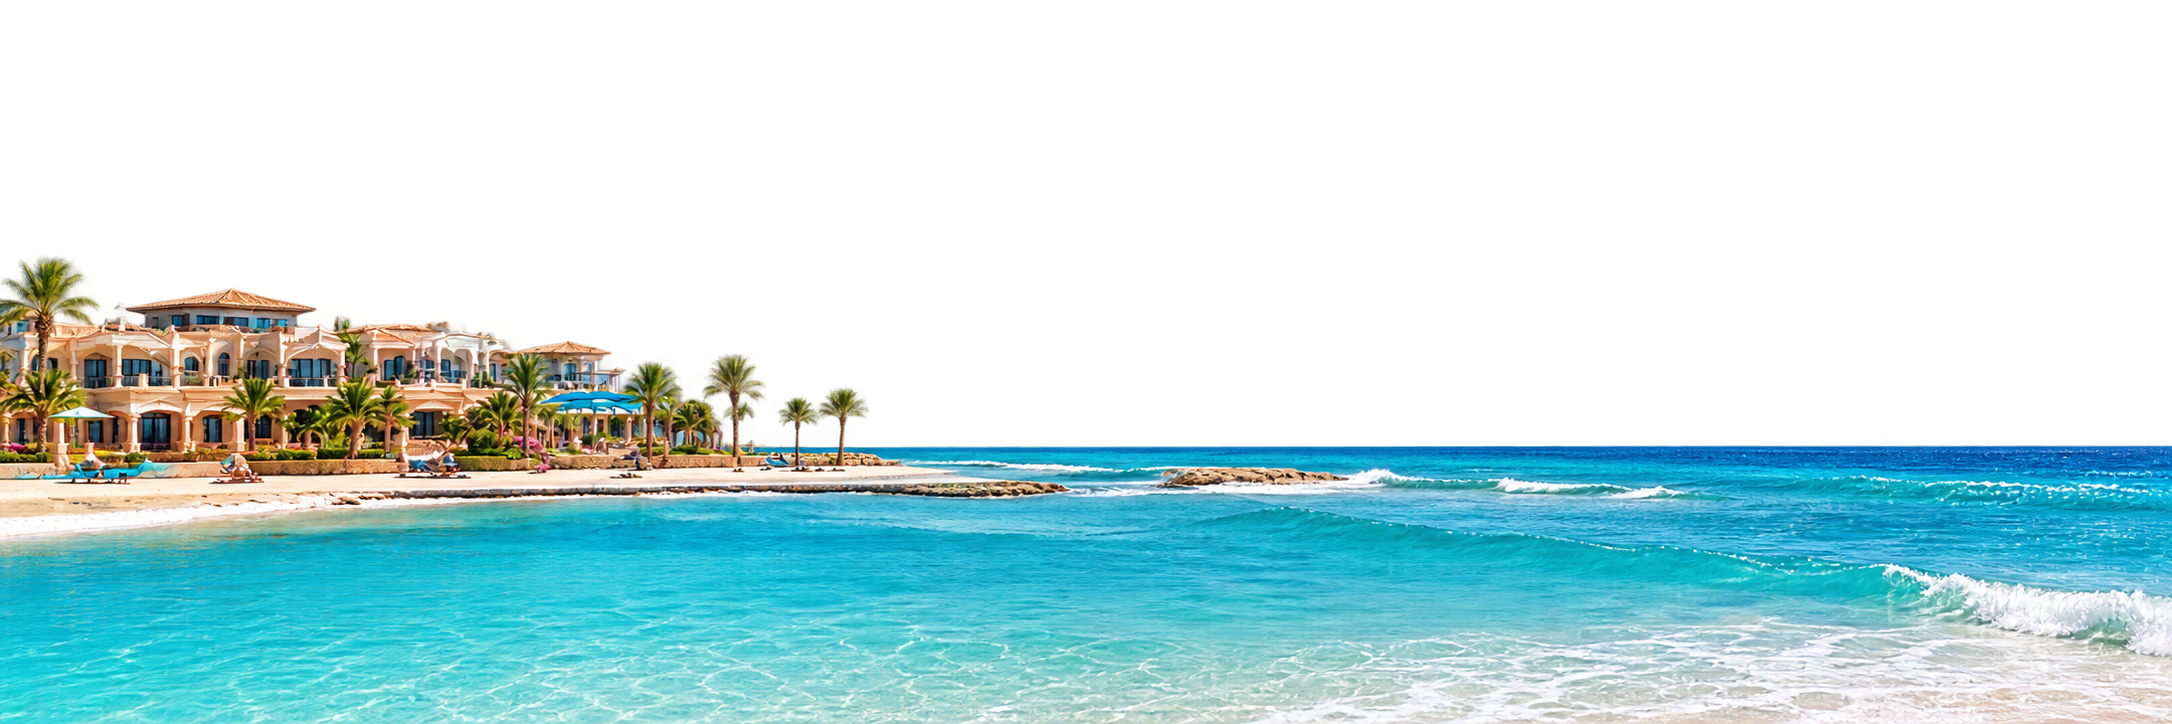
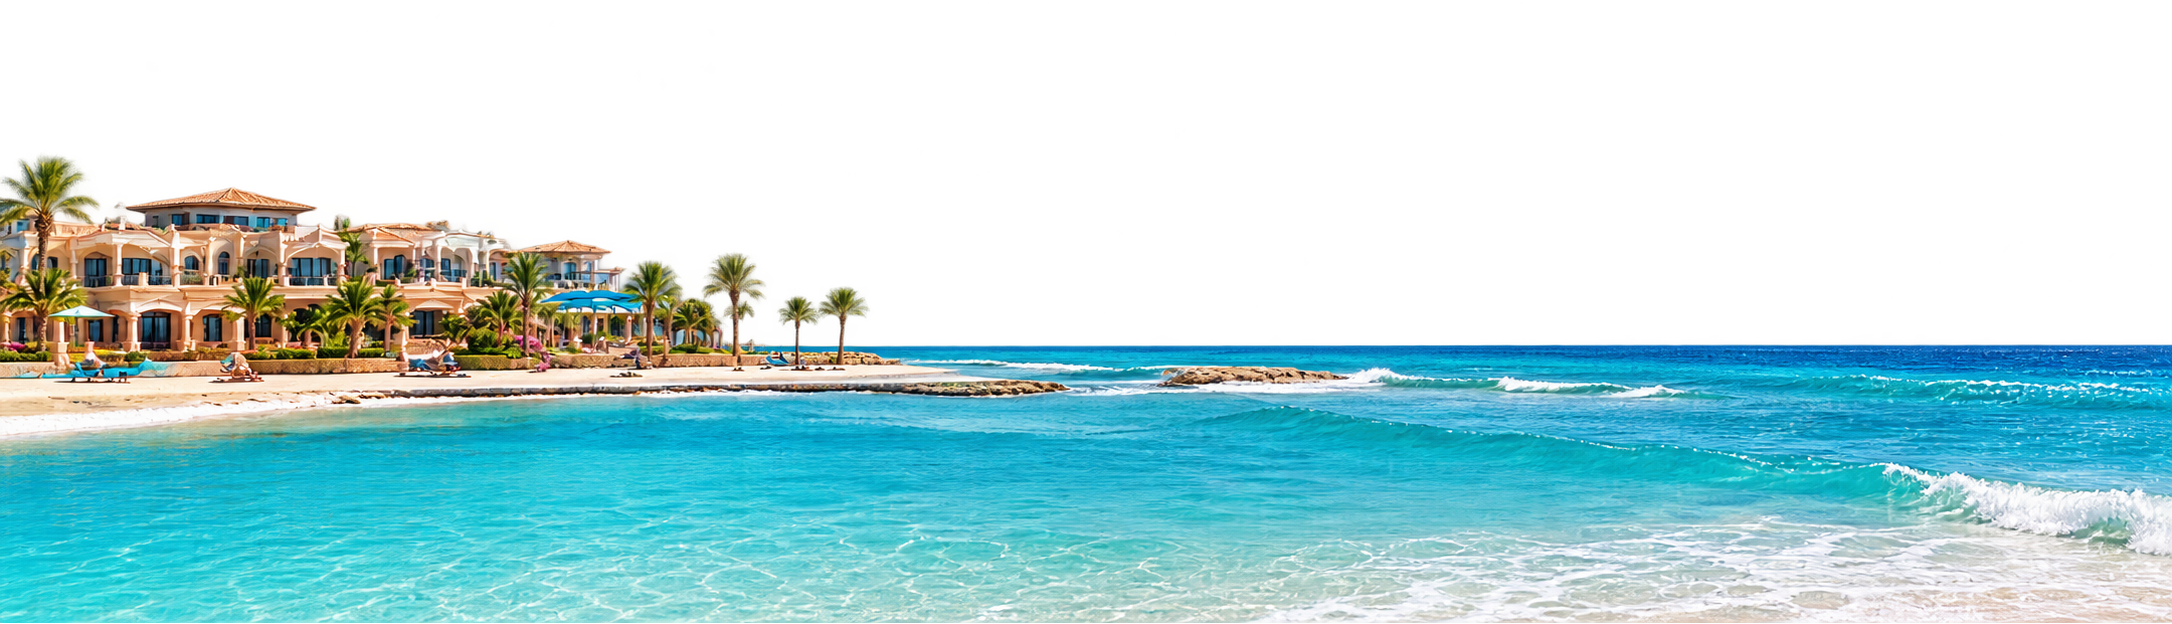
add 4 chalets

diff --git a/src/constants/chaletsLgImages.js b/src/constants/chaletsLgImages.js
@@ -1,4 +1,54 @@
 //? Chalets Images
+//* Ch 2001
+import ch2001CoverImg from "../assets/images/chalets/lg/2001-75/coverImg.jpg";
+import ch2001Img1 from "../assets/images/chalets/lg/2001-75/1.jpg";
+import ch2001Img2 from "../assets/images/chalets/lg/2001-75/2.jpg";
+import ch2001Img3 from "../assets/images/chalets/lg/2001-75/3.jpg";
+import ch2001Img4 from "../assets/images/chalets/lg/2001-75/4.jpg";
+import ch2001Img5 from "../assets/images/chalets/lg/2001-75/5.jpg";
+import ch2001Img6 from "../assets/images/chalets/lg/2001-75/6.jpg";
+import ch2001Img7 from "../assets/images/chalets/lg/2001-75/7.jpg";
+import ch2001Img8 from "../assets/images/chalets/lg/2001-75/8.jpg";
+import ch2001Img9 from "../assets/images/chalets/lg/2001-75/9.jpg";
+import ch2001Img10 from "../assets/images/chalets/lg/2001-75/10.jpg";
+import ch2001Img11 from "../assets/images/chalets/lg/2001-75/11.jpg";
+import ch2001Img12 from "../assets/images/chalets/lg/2001-75/12.jpg";
+import ch2001Img13 from "../assets/images/chalets/lg/2001-75/13.jpg";
+import ch2001Img14 from "../assets/images/chalets/lg/2001-75/14.jpg";
+import ch2001Img15 from "../assets/images/chalets/lg/2001-75/15.jpg";
+import ch2001Img16 from "../assets/images/chalets/lg/2001-75/16.jpg";
+import ch2001Img17 from "../assets/images/chalets/lg/2001-75/17.jpg";
+import ch2001Img18 from "../assets/images/chalets/lg/2001-75/18.jpg";
+//* Ch 2102
+import ch2102CoverImg from "../assets/images/chalets/lg/2102-75/coverImg.jpg";
+import ch2102Img1 from "../assets/images/chalets/lg/2102-75/1.jpg";
+import ch2102Img2 from "../assets/images/chalets/lg/2102-75/2.jpg";
+import ch2102Img3 from "../assets/images/chalets/lg/2102-75/3.jpg";
+import ch2102Img4 from "../assets/images/chalets/lg/2102-75/4.jpg";
+import ch2102Img5 from "../assets/images/chalets/lg/2102-75/5.jpg";
+import ch2102Img6 from "../assets/images/chalets/lg/2102-75/6.jpg";
+import ch2102Img7 from "../assets/images/chalets/lg/2102-75/7.jpg";
+import ch2102Img8 from "../assets/images/chalets/lg/2102-75/8.jpg";
+import ch2102Img9 from "../assets/images/chalets/lg/2102-75/9.jpg";
+import ch2102Img10 from "../assets/images/chalets/lg/2102-75/10.jpg";
+import ch2102Img11 from "../assets/images/chalets/lg/2102-75/11.jpg";
+import ch2102Img12 from "../assets/images/chalets/lg/2102-75/12.jpg";
+import ch2102Img13 from "../assets/images/chalets/lg/2102-75/13.jpg";
+import ch2102Img14 from "../assets/images/chalets/lg/2102-75/14.jpg";
+//* Ch 4108
+import ch4108CoverImg from "../assets/images/chalets/lg/4108-75/coverImg.jpg";
+import ch4108Img1 from "../assets/images/chalets/lg/4108-75/1.jpg";
+import ch4108Img2 from "../assets/images/chalets/lg/4108-75/2.jpg";
+import ch4108Img3 from "../assets/images/chalets/lg/4108-75/3.jpg";
+import ch4108Img4 from "../assets/images/chalets/lg/4108-75/4.jpg";
+import ch4108Img5 from "../assets/images/chalets/lg/4108-75/5.jpg";
+import ch4108Img6 from "../assets/images/chalets/lg/4108-75/6.jpg";
+import ch4108Img7 from "../assets/images/chalets/lg/4108-75/7.jpg";
+import ch4108Img8 from "../assets/images/chalets/lg/4108-75/8.jpg";
+import ch4108Img9 from "../assets/images/chalets/lg/4108-75/9.jpg";
+import ch4108Img10 from "../assets/images/chalets/lg/4108-75/10.jpg";
+import ch4108Img11 from "../assets/images/chalets/lg/4108-75/11.jpg";
+import ch4108Img12 from "../assets/images/chalets/lg/4108-75/12.jpg";
 //* Ch 23011
 import ch23011CoverImg from "../assets/images/chalets/lg/23011-75/coverImg.jpeg";
 import ch23011Img1 from "../assets/images/chalets/lg/23011-75/1.jpeg";
@@ -217,6 +267,59 @@ import ch87201Img21 from "../assets/images/chalets/lg/87201-96/21.jpg";
 import ch87201Img22 from "../assets/images/chalets/lg/87201-96/22.jpg";
 
 export const chaletsLgImages = {
+  ch2001: [
+    ch2001CoverImg,
+    ch2001Img1,
+    ch2001Img2,
+    ch2001Img3,
+    ch2001Img4,
+    ch2001Img5,
+    ch2001Img6,
+    ch2001Img7,
+    ch2001Img8,
+    ch2001Img9,
+    ch2001Img10,
+    ch2001Img11,
+    ch2001Img12,
+    ch2001Img13,
+    ch2001Img14,
+    ch2001Img15,
+    ch2001Img16,
+    ch2001Img17,
+    ch2001Img18,
+  ],
+  ch2102: [
+    ch2102CoverImg,
+    ch2102Img1,
+    ch2102Img2,
+    ch2102Img3,
+    ch2102Img4,
+    ch2102Img5,
+    ch2102Img6,
+    ch2102Img7,
+    ch2102Img8,
+    ch2102Img9,
+    ch2102Img10,
+    ch2102Img11,
+    ch2102Img12,
+    ch2102Img13,
+    ch2102Img14,
+  ],
+  ch4108: [
+    ch4108CoverImg,
+    ch4108Img1,
+    ch4108Img2,
+    ch4108Img3,
+    ch4108Img4,
+    ch4108Img5,
+    ch4108Img6,
+    ch4108Img7,
+    ch4108Img8,
+    ch4108Img9,
+    ch4108Img10,
+    ch4108Img11,
+    ch4108Img12,
+  ],
   ch23011: [
     ch23011CoverImg,
     ch23011Img1,

diff --git a/src/constants/chalets.js b/src/constants/chalets.js
@@ -1,4 +1,6 @@
 //? location imgs
+import locationCh2Img from "../assets/images/locations/2.jpg";
+import locationCh4Img from "../assets/images/locations/4.jpg";
 import locationCh23Img from "../assets/images/locations/23.jpg";
 import locationCh24Img from "../assets/images/locations/24.jpg";
 import locationCh25Img from "../assets/images/locations/25.jpg";
@@ -413,6 +415,102 @@ export const couch = [
 ];
 
 const chaletsList = [
+  {
+    chaletImages: chaletsLgImages.ch2001,
+    locationImg: locationCh2Img,
+    num: 2001,
+    price: 4300,
+    view: [tags.poolView],
+    adv: [
+      adv.airCon,
+      adv.smartTv,
+      adv.garden,
+      adv.grill,
+      adv.swing,
+      adv.autoWashing,
+      adv.kidsArea,
+      adv.oven,
+      adv.pergola,
+    ],
+    details: [
+      floors.ground,
+      areas.area75,
+      rooms.threeRooms.room,
+      rooms.threeRooms.bath,
+    ],
+    infos: [
+      // التصنيف
+      classificationList[1],
+      // rooms details
+      rooms.threeRooms.nofPeople,
+      // nof beds
+      beds[1].xl,
+      // nof sofa
+      couch[3],
+    ],
+  },
+  {
+    chaletImages: chaletsLgImages.ch2102,
+    locationImg: locationCh2Img,
+    num: 2102,
+    price: 4000,
+    view: [tags.poolView],
+    adv: [
+      adv.airCon,
+      adv.smartTv,
+      adv.autoWashing,
+      adv.kidsArea,
+      adv.microwave,
+      adv.pergola,
+    ],
+    details: [
+      floors.first,
+      areas.area75,
+      rooms.threeRooms.room,
+      rooms.threeRooms.bath,
+    ],
+    infos: [
+      // التصنيف
+      classificationList[1],
+      // rooms details
+      rooms.threeRooms.nofPeople,
+      // nof beds
+      beds[1].xl,
+      // nof sofa
+      couch[3],
+    ],
+  },
+  {
+    chaletImages: chaletsLgImages.ch4108,
+    locationImg: locationCh4Img,
+    num: 4108,
+    price: 4000,
+    view: [tags.poolView],
+    adv: [
+      adv.airCon,
+      adv.smartTv,
+      adv.autoWashing,
+      adv.kidsArea,
+      adv.microwave,
+      adv.pergola,
+    ],
+    details: [
+      floors.first,
+      areas.area75,
+      rooms.threeRooms.room,
+      rooms.threeRooms.bath,
+    ],
+    infos: [
+      // التصنيف
+      classificationList[0],
+      // rooms details
+      rooms.threeRooms.nofPeople,
+      // nof beds
+      beds[1].xl,
+      // nof sofa
+      couch[3],
+    ],
+  },
   {
     chaletImages: chaletsLgImages.ch23011,
     locationImg: locationCh23Img,
@@ -1123,6 +1221,39 @@ const chaletsList = [
       rooms.towRooms.nofPeople,
       // nof beds
       beds[1].sm,
+      // nof sofa
+      couch[1],
+    ],
+  },
+  {
+    chaletImages: chaletsSmImages.ch74005,
+    locationImg: locationCh74Img,
+    num: 74005,
+    price: 3500,
+    view: [tags.poolView],
+    adv: [
+      adv.airCon,
+      adv.smartTv,
+      adv.garden,
+      adv.grill,
+      adv.swing,
+      adv.microwave,
+      adv.kidsArea,
+      adv.autoWashing,
+    ],
+    details: [
+      floors.ground,
+      areas.area48,
+      rooms.towRooms.room,
+      rooms.towRooms.bath,
+    ],
+    infos: [
+      // التصنيف
+      classificationList[2],
+      // rooms details
+      rooms.towRooms.nofPeople,
+      // nof beds
+      beds[0],
       // nof sofa
       couch[1],
     ],

diff --git a/src/constants/chaletsSmImages.js b/src/constants/chaletsSmImages.js
@@ -111,6 +111,17 @@ import ch70203Img9 from "../assets/images/chalets/sm/70203-48/9.jpg";
 import ch70203Img10 from "../assets/images/chalets/sm/70203-48/10.jpg";
 import ch70203Img11 from "../assets/images/chalets/sm/70203-48/11.jpg";
 import ch70203Img12 from "../assets/images/chalets/sm/70203-48/12.jpg";
+//* Ch 74005
+import ch74005CoverImg from "../assets/images/chalets/sm/74005-48/coverImg.jpg";
+import ch74005Img1 from "../assets/images/chalets/sm/74005-48/1.jpg";
+import ch74005Img2 from "../assets/images/chalets/sm/74005-48/2.jpg";
+import ch74005Img3 from "../assets/images/chalets/sm/74005-48/3.jpg";
+import ch74005Img4 from "../assets/images/chalets/sm/74005-48/4.jpg";
+import ch74005Img5 from "../assets/images/chalets/sm/74005-48/5.jpg";
+import ch74005Img6 from "../assets/images/chalets/sm/74005-48/6.jpg";
+import ch74005Img7 from "../assets/images/chalets/sm/74005-48/7.jpg";
+import ch74005Img8 from "../assets/images/chalets/sm/74005-48/8.jpg";
+import ch74005Img9 from "../assets/images/chalets/sm/74005-48/9.jpg";
 //* Ch 74101
 import ch74101CoverImg from "../assets/images/chalets/sm/74101-48/coverImg.jpg";
 import ch74101Img1 from "../assets/images/chalets/sm/74101-48/1.jpg";
@@ -382,6 +393,18 @@ export const chaletsSmImages = {
     ch70203Img10,
     ch70203Img11,
     ch70203Img12,
+  ],
+  ch74005: [
+    ch74005CoverImg,
+    ch74005Img1,
+    ch74005Img2,
+    ch74005Img3,
+    ch74005Img4,
+    ch74005Img5,
+    ch74005Img6,
+    ch74005Img7,
+    ch74005Img8,
+    ch74005Img9,
   ],
   ch74101: [
     ch74101CoverImg,

diff --git a/src/components/home/Testimonials.jsx b/src/components/home/Testimonials.jsx
@@ -188,7 +188,7 @@ export default function Testimonials() {
           ))}
           <div className="absolute right-0 md:right-1/4 bottom-1/2 h-px md:h-[30%] w-1/3 md:w-px translate-y-1/2 -translate-x-1/4 md:translate-x-3/4 bg-secondary-500/30" />
           <div className="absolute right-1/2 top-0 md:top-auto sm:bottom-1/2 h-[31%] md:h-[30%] w-px translate-y-1/3 sm:translate-y-1/2 translate-x-1/2 bg-secondary-500/30" />
-          <div className="absolute right-1/2 bottom-0 md:hidden h-[31%] md:h-[30%] w-px -translate-y-1/3 sm:translate-y-1/2 translate-x-1/2 bg-secondary-500/30" />
+          <div className="absolute right-1/2 bottom-0 md:hidden h-[31%] md:h-[30%] w-px -translate-y-1/3 translate-x-1/2 bg-secondary-500/30" />
           <div className="absolute left-0 md:left-auto md:right-3/4 bottom-1/2 h-px md:h-[30%] w-1/3 md:w-px translate-y-1/2 translate-x-1/4 md:translate-x-3/4 bg-secondary-500/30" />
         </div>
       </div>
@@ -200,7 +200,7 @@ export default function Testimonials() {
       <img
         src={transparentSmBgImg}
         alt="see-bg-img"
-        className="absolute sm:hidden z-1 bottom-0 left-0 w-full h-450 object-cover opacity-50"
+        className="absolute sm:hidden z-1 bottom-0 left-0 w-full h-145 object-cover opacity-50"
       />
       <div className="absolute z-2 bottom-0 left-0 w-full h-20 sm:h-50 bg-linear-to-t from-white to-transparent" />
     </div>
